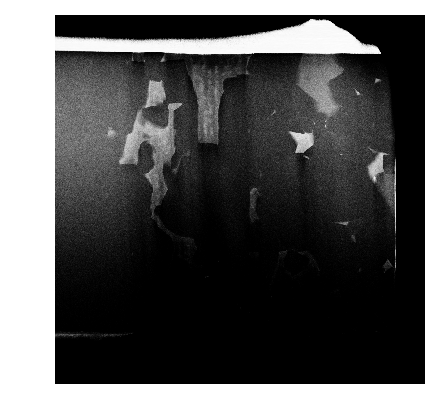
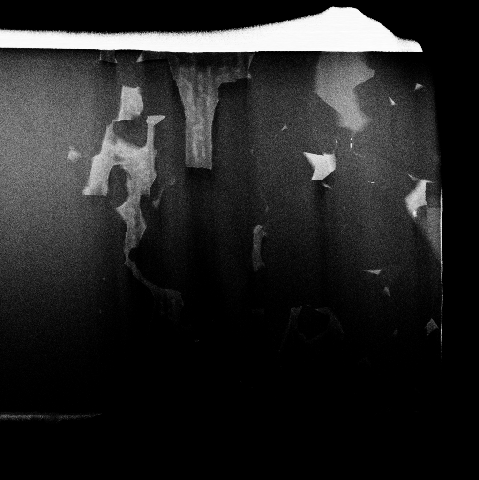
fixed small window

diff --git a/GrainBoundApp.py b/GrainBoundApp.py
@@ -3,6 +3,8 @@
 # For clients, make an install bash file to install python 2.7 for them and all of the dependencies in my current python 2.7 version. Make sure about this because this took forever!
 # <----End of Summary---->
 
+# !/usr/bin/python
+# coding=utf-8
 
 #<----Dependencies---->
 import kivy
@@ -29,6 +31,7 @@ import cv2
 import numpy as np
 import os
 import psutil
+import time
 from multiprocessing import Process, Pool
 import DM3lib as dm3
 import matplotlib.pyplot as plt
@@ -43,24 +46,20 @@ dm3f = dm3.DM3("./Data/example.dm3")
 plt.figure(frameon=False)
 plt.imshow(dm3f.imagedata[0], cmap='gray')
 plt.axis('off')
-plt.savefig("material.png", bbox_inches='tight')
+plt.gca().set_axis_off()
+plt.gca().xaxis.set_major_locator(plt.NullLocator())
+plt.gca().yaxis.set_major_locator(plt.NullLocator())
+plt.subplots_adjust(top = 1, bottom = 0, right = 1, left = 0, 
+            hspace = 0, wspace = 0)
+plt.savefig("material.png", bbox_inches='tight', pad_inches=-0.035)
 
 # Read the image in cv2
 img = cv2.imread("./material.png", 0)
-
-# This creates the plot for the historgram
-# plt.matshow(dm3f)
-plt.ylabel("Number of Pixels")
-plt.xlabel('Grey Levels')
-
-# Global variables
-# Used to hold the processes of each window to kill later
-a = None
-b = None
 #<----End of code that runs when GBApp starts---->
 
 
 # TODO: Remove Gamma (unless you can figure it out), and then for the metadata show dimension size and other data, and on the image show magnification
+# TODO: Make second window always on top. Thinking I can do this once we port it to Windows.
 
 class rootwi(GridLayout):
     def showData(self):   
@@ -301,8 +300,11 @@ class GBApp(App):
 
     # When the current window closes, close the other window
     def on_stop(self):
-        p = psutil.Process(os.getpid()+1)
-        p.terminate()
+        try:
+            p = psutil.Process(os.getpid()+1)
+            p.terminate()
+        except:
+            print "Closed successfully"
 
 class GBWinApp(App):
     def build(self):
@@ -319,9 +321,18 @@ class GBWinApp(App):
             size_hint_y: None
             source:"./material.png"
             id: material
-            height: 600
-            width: 600
-            pos: -100, -100
+            height: 627
+            width: 665
+            keep_ratio: False
+            allow_stretch: True
+
+        Label:
+            id: relativeSize
+            text: "1 " + u'\u03BC' + "m"
+            font_size: 20
+            pos: 0, -15
+            color: (1,1,1,1)
+            
 """)
         return WinRoot()
     
@@ -330,8 +341,12 @@ class GBWinApp(App):
     
     # When the current window closes, close the other window
     def on_stop(self):
-        p = psutil.Process(os.getpid()-1)
-        p.terminate()
+        try:
+            p = psutil.Process(os.getpid()-1)
+            p.terminate()
+        except:
+            print "Closed successfully"
+
     
 
 def open_window():
@@ -343,9 +358,17 @@ def open_app():
 if __name__ == "__main__":
     a = Process(target=open_app)
     b = Process(target=open_window)
+    Config.set('graphics', 'position', 'custom')
+    Config.set('graphics', 'left', 0)
+    Config.set('graphics', 'top',  0)
+    Config.set('graphics', 'width', '1280')
+    Config.set('graphics', 'height', '960')
     a.start()
-    Config.set('graphics','resizable', 0)
+    time.sleep(0.05) # This ensures that the second window appears on top
+    Config.set('graphics', 'left', 500)
+    Config.set('graphics', 'top',  300)
+    Config.set('graphics', 'width', '665')
+    Config.set('graphics', 'height', '627')
     Config.set('graphics', 'window_state', 'maximized')
-    Config.set('graphics', 'width', '410')
-    Config.set('graphics', 'height', '410')
+    Config.set('graphics','resizable', 0)
     b.start()
